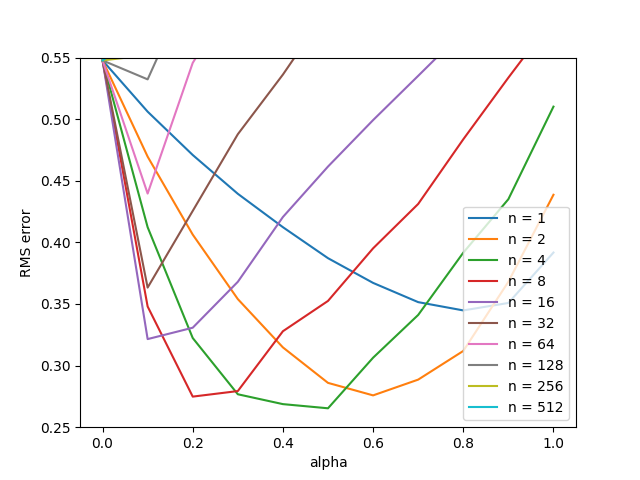
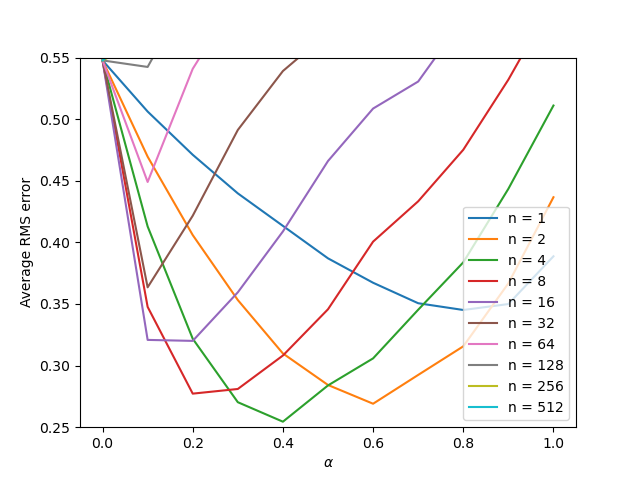
refactor code

diff --git a/chapter-7/random_walk.py b/chapter-7/random_walk.py
@@ -5,59 +5,48 @@ import math
 
 
 class RandomWalk:
+    '''
+    Random walk environment
+    '''
 
     def __init__(self, n_states, start_state):
-        self._n_states = n_states
-        self._states = np.arange(1, n_states + 1)
-        self._start_state = start_state
-        self._end_states = [0, n_states + 1]
-        self.ACTION_LEFT = -1
-        self.ACTION_RIGHT = 1
-        self._actions = [self.ACTION_LEFT, self.ACTION_RIGHT]
-        self._action_prob = 0.5
-        self._rewards = [-1, 0, 1]
+        self.n_states = n_states
+        self.states = np.arange(1, n_states + 1)
+        self.start_state = start_state
+        self.end_states = [0, n_states + 1]
+        self.actions = [-1, 1]
+        self.action_prob = 0.5
+        self.rewards = [-1, 0, 1]
 
-
-    @property
-    def n_states(self):
-        return self._n_states
-
-
-    @property
-    def states(self):
-        return self._states
-
-
-    @property
-    def start_state(self):
-        return self._start_state
-
-
-    @property
-    def end_states(self):
-        return self._end_states
-
-
-    @property
-    def actions(self):
-        return self._actions
-
-
-    @property
-    def rewards(self):
-        return self._rewards
-
-
-    @property
-    def action_prob(self):
-        return self._action_prob
-    
 
     def is_terminal(self, state):
+        '''
+        Whether state @state is an end state
+
+        Params
+        ------
+        state: int
+            current state
+        '''
         return state in self.end_states
 
 
     def take_action(self, state, action):
+        '''
+        Take action @action at state @state
+
+        Params
+        ------
+        state: int
+            current state
+        action: int
+            action taken
+
+        Return
+        ------
+        (next_state, reward): (int, int)
+            a tuple of next state and reward
+        '''
         next_state = state + action
         if next_state == 0:
             reward = self.rewards[0]
@@ -69,9 +58,15 @@ class RandomWalk:
 
 
 def get_true_value(random_walk, gamma):
-    """
-    Compute true value by Bellman equations
-    """
+    '''
+    Calculate true value of @random_walk by Bellman equations
+
+    Params
+    ------
+    random_walk: RandomWalk
+    gamma: float
+        discount factor
+    '''
     P = np.zeros((random_walk.n_states, random_walk.n_states))
     r = np.zeros((random_walk.n_states + 2, ))
     true_value = np.zeros((random_walk.n_states + 2, ))
@@ -108,23 +103,41 @@ def get_true_value(random_walk, gamma):
     return true_value
 
 
-def get_action(random_walk):
+def random_policy(random_walk):
+    '''
+    Choose an action randomly
+
+    Params
+    ------
+    random_walk: RandomWalk
+    '''
     return np.random.choice(random_walk.actions)
 
 
 def n_step_temporal_difference(V, n, alpha, gamma, random_walk):
+    '''
+    n-step TD
+
+    Params
+    ------
+    V: np.ndarray
+        value function
+    n: int
+        number of steps
+    alpha: float
+        step size
+    random_walk: RandomWalk
+    '''
     state = random_walk.start_state
+    states = [state]
+
     T = float('inf')
     t = 0
-
-    states = []
-    states.append(state)
-    rewards = []
-    rewards.append(0) # dummy reward to save the next reward as R_{t+1}
+    rewards = [0] # dummy reward to save the next reward as R_{t+1}
 
     while True:
         if t < T:
-            action = get_action(random_walk)
+            action = random_policy(random_walk)
             next_state, reward = random_walk.take_action(state, action)
             states.append(next_state)
             rewards.append(reward)
@@ -146,13 +159,19 @@ def n_step_temporal_difference(V, n, alpha, gamma, random_walk):
         
 
 def rmse():
+    '''
+    Calculate RMS error
+    '''
+    n_states = 19
+    start_state = 10
+    gamma = 1
+    random_walk = RandomWalk(n_states, start_state)
+    true_value = get_true_value(random_walk, gamma)
+
     episodes = 10
     runs = 100
-    gamma = 1
     ns = np.power(2, np.arange(0, 10))
     alphas = np.arange(0, 1.1, 0.1)
-    random_walk = RandomWalk(19, 10)
-    true_value = get_true_value(random_walk, gamma)
 
     errors = np.zeros((len(ns), len(alphas)))
     for n_i, n in enumerate(ns):
@@ -168,8 +187,8 @@ def rmse():
 
     for i in range(0, len(ns)):
         plt.plot(alphas, errors[i, :], label='n = %d' % (ns[i]))
-    plt.xlabel('alpha')
-    plt.ylabel('RMS error')
+    plt.xlabel(r'$\alpha$')
+    plt.ylabel('Average RMS error')
     plt.ylim([0.25, 0.55])
     plt.legend()
     plt.savefig('./random_walk.png')
@@ -178,8 +197,4 @@ def rmse():
 
 if __name__ == '__main__':
     rmse()
-
-
-
-
 
